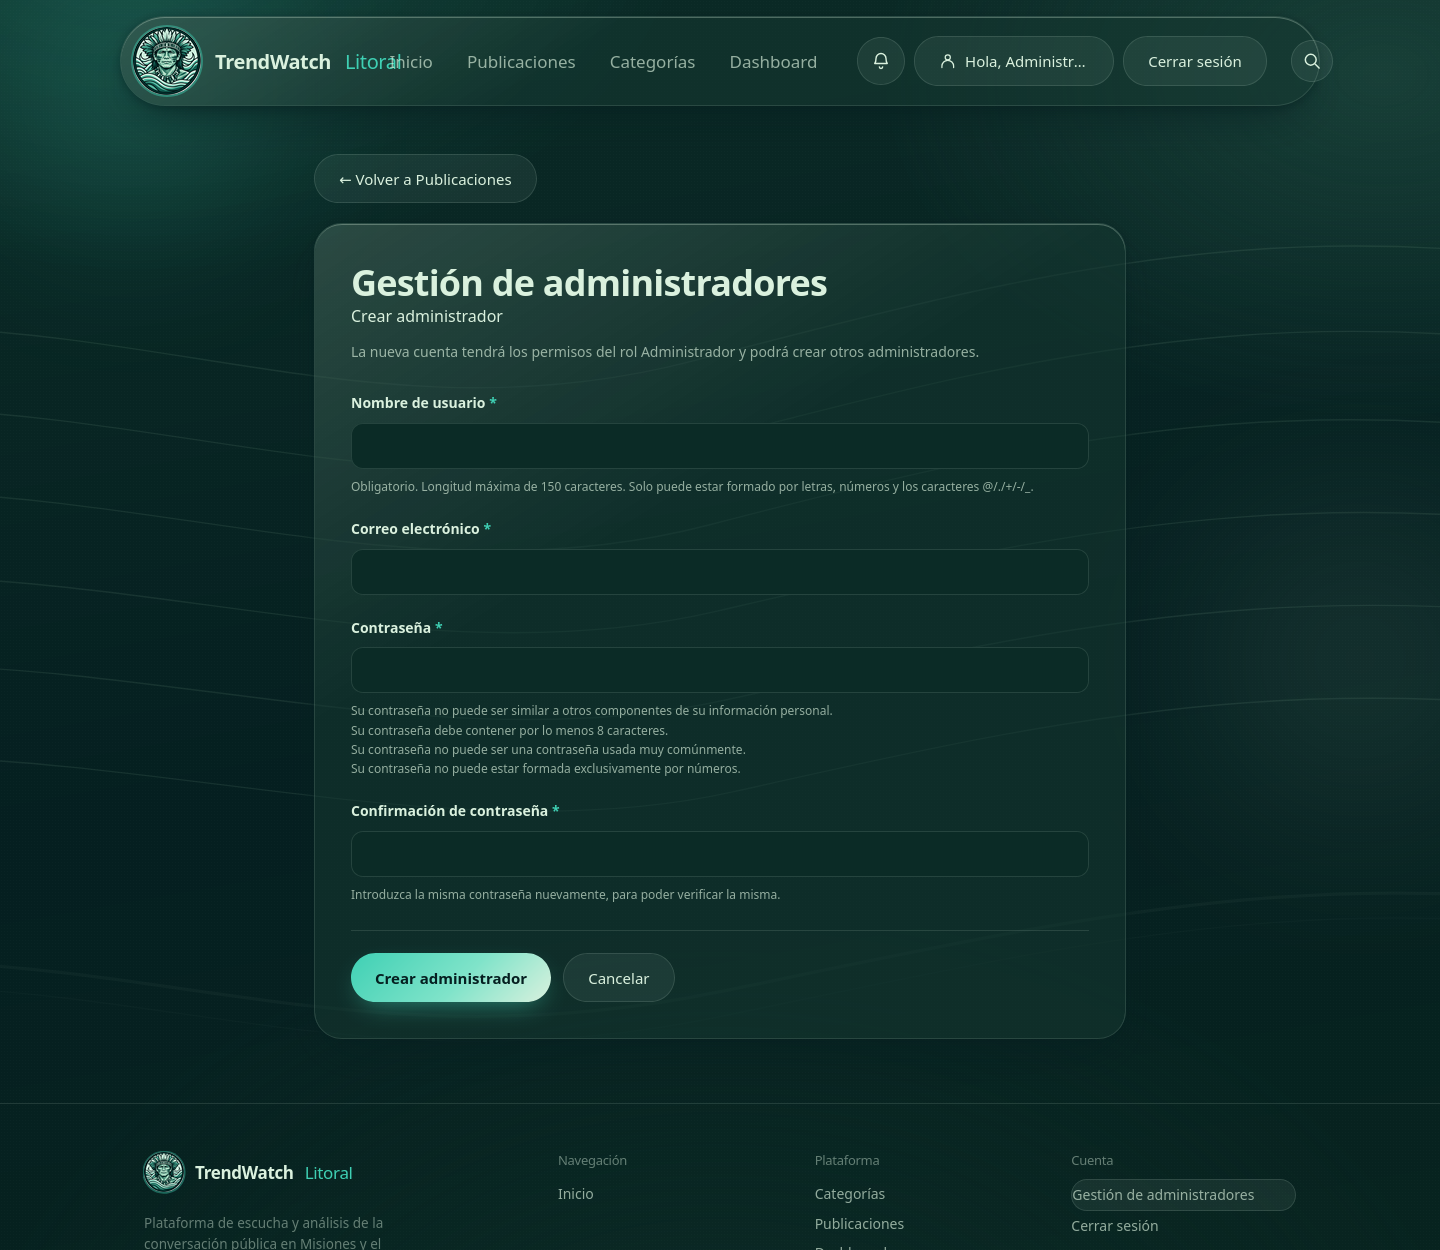
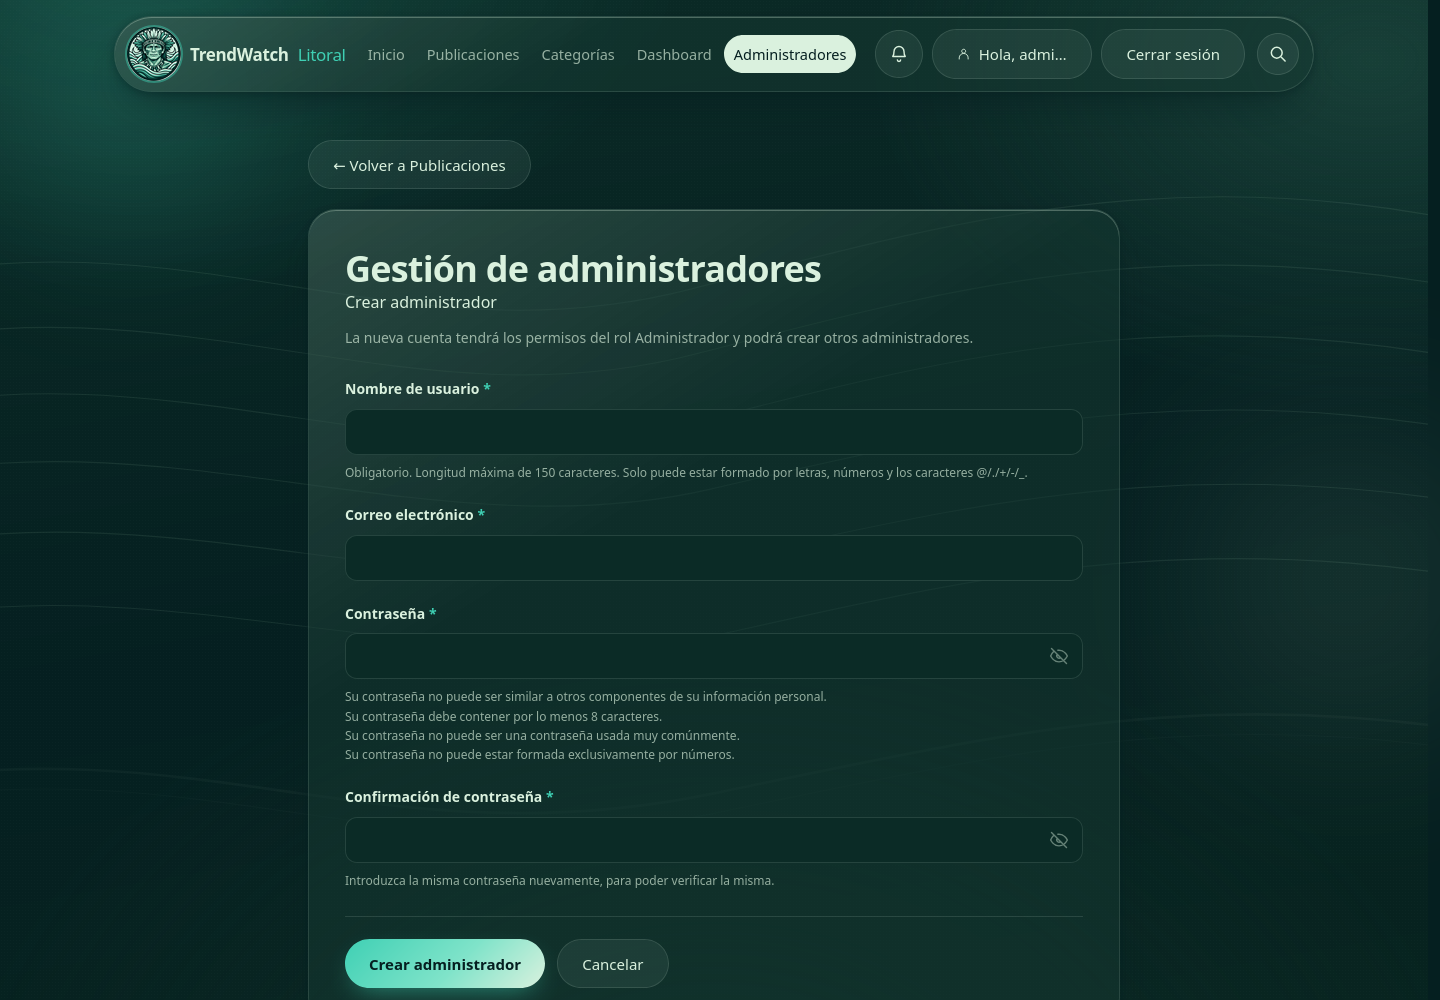
fix(frontend): integrar administradores al navbar y mostrar contraseñas

diff --git a/app/static/css/trendwatch.css b/app/static/css/trendwatch.css
@@ -639,7 +639,8 @@ body.app{padding:0}
 @keyframes inicio-float{0%,100%{transform:translateY(0)}50%{transform:translateY(-10px)}}
 @media (max-width:1000px){.inicio-hero__grid{gap:34px}}
 @media (max-width:760px){.inicio-hero{padding:52px 0 48px;min-height:0}.inicio-hero__grid{grid-template-columns:1fr;gap:28px}.inicio-hero h1{font-size:clamp(46px,11vw,70px)}.inicio-hero__lede{font-size:16px}.inicio-hero__visual{min-height:300px}.inicio-topic-link{width:min(190px,47%);min-height:86px;padding:12px}.inicio-topic-link--1{top:0;left:0}.inicio-topic-link--2{top:0;right:0}.inicio-topic-link--3{bottom:0;left:0}.inicio-topic-link--4{right:0;bottom:0}.inicio-trends-empty{width:min(320px,92%)}}
-@media (max-width:660px){.public-nav-toggle{display:grid}.nav-holder .nav__links{position:absolute;top:calc(100% + 8px);left:12px;right:12px;display:none;flex-direction:column;gap:3px;padding:10px;border-radius:22px;background:var(--glass-deep);border:1px solid var(--edge);backdrop-filter:blur(var(--blur));box-shadow:var(--shadow)}.nav-holder .nav__links.is-open{display:flex}.nav-holder .nav__links a{width:100%}.nav-holder .nav__act{display:none}.inicio-hero__actions .btn{flex:1}}
+@media (max-width:1279px){.public-nav-toggle{display:grid}.nav-holder .nav__links{position:absolute;top:calc(100% + 8px);left:12px;right:12px;display:none;flex-direction:column;gap:3px;padding:10px;border-radius:22px;background:rgba(12,48,43,.98);border:1px solid var(--edge);backdrop-filter:blur(var(--blur));box-shadow:var(--shadow)}.nav-holder .nav__links.is-open{display:flex}.nav-holder .nav__links a{width:100%}.nav-holder .nav__links{max-height:calc(100dvh - 110px);overflow-y:auto}.nav-holder .nav__act{display:flex;margin-left:auto}}
+@media (max-width:660px){.inicio-hero__actions .btn{flex:1}}
 @media (prefers-reduced-motion:reduce){.inicio-topic-link{transition:none}}
 
 
@@ -665,3 +666,12 @@ body.app{padding:0}
 .litoral-brand{display:inline-flex;align-items:center;gap:12px}
 .shell.is-collapsed .sidebar__top{flex-direction:column;gap:10px}
 .nav .account-actions>.account-user{cursor:pointer}
+
+/* Espacio para las cinco secciones sin superponer marca y enlaces. */
+@media (min-width:1280px){
+  .nav:has(.nav__links>a:nth-child(5)){gap:12px}
+  .nav:has(.nav__links>a:nth-child(5)) .brand{flex-shrink:0;font-size:17px;gap:9px}
+  .nav:has(.nav__links>a:nth-child(5)) .brand__mark{width:54px;height:54px}
+  .nav:has(.nav__links>a:nth-child(5)) .nav__links{margin-left:0}
+  .nav:has(.nav__links>a:nth-child(5)) .account-user{max-width:160px}
+}

diff --git a/app/core/templates/base.html b/app/core/templates/base.html
@@ -11,7 +11,7 @@
   <link rel="preconnect" href="https://fonts.gstatic.com" crossorigin>
   <link href="https://fonts.googleapis.com/css2?family=Bricolage+Grotesque:opsz,wght@12..96,400;12..96,500;12..96,600&family=Inter+Tight:wght@400;500;600&display=swap" rel="stylesheet">
   <link rel="icon" type="image/png" href="{% static 'img/favicon.png' %}?v=2">
-  <link rel="stylesheet" href="{% static 'css/trendwatch.css' %}?v=16">
+  <link rel="stylesheet" href="{% static 'css/trendwatch.css' %}?v=17">
   <link rel="stylesheet" href="{% static 'css/auth-flow.css' %}?v=7">
   <link rel="stylesheet" href="{% static 'css/notification-prompt.css' %}?v=2">
   <link rel="stylesheet" href="{% static 'css/news-search.css' %}?v=1">
@@ -51,11 +51,12 @@
         {% include "partials/_mark.html" %}
         TrendWatch <em>Litoral</em>
       </a>
-      <div class="nav__links">
+      <div class="nav__links" id="public-nav-links">
         <a href="{% url 'landing' %}" {% if request.resolver_match.url_name == 'landing' %}aria-current="page"{% endif %}>Inicio</a>
         {% if perms.core.change_publicacion %}<a href="{% url 'publicaciones' %}" {% if request.resolver_match.url_name == 'publicaciones' %}aria-current="page"{% endif %}>Publicaciones</a>{% endif %}
         {% block categories_nav %}<a href="{% url 'categorias' %}" {% if request.resolver_match.url_name == 'categorias' %}aria-current="page"{% endif %}>Categorías</a>{% endblock %}
         {% if perms.core.view_publicacion and perms.core.add_publicacion and perms.core.change_publicacion and perms.core.delete_publicacion %}<a href="{% url 'dashboard' %}" {% if request.resolver_match.url_name == 'dashboard' %}aria-current="page"{% endif %}>Dashboard</a>{% endif %}
+        {% include "partials/_administradores_nav.html" %}
       </div>
       <div class="nav__act">
         {% include "partials/_account_actions.html" %}
@@ -96,7 +97,6 @@
         </div>
         <div>
           <h4>Cuenta</h4>
-          {% puede_gestionar_administradores request.user as gestionar_administradores %}{% if gestionar_administradores %}<a class="btn btn--ghost" href="{% url 'gestion_administradores' %}">Gestión de administradores</a>{% endif %}
           {% if request.user.is_authenticated %}
             <a href="{% url 'logout' %}">Cerrar sesión</a>
           {% else %}

diff --git a/app/core/templates/inicio.html b/app/core/templates/inicio.html
@@ -10,7 +10,7 @@
         <link rel="preconnect" href="https://fonts.gstatic.com" crossorigin>
         <link href="https://fonts.googleapis.com/css2?family=Bricolage+Grotesque:opsz,wght@12..96,400;12..96,500;12..96,600&family=Inter+Tight:wght@400;500;600&display=swap" rel="stylesheet">
         <link rel="icon" type="image/png" href="/static/img/favicon.png?v=2">
-        <link rel="stylesheet" href="/static/css/trendwatch.css?v=16">
+        <link rel="stylesheet" href="/static/css/trendwatch.css?v=17">
         <link rel="stylesheet" href="/static/css/landing-news.css?v=8">
         <link rel="stylesheet" href="/static/css/exchange-rates.css?v=1">
         <link rel="stylesheet" href="/static/css/auth-flow.css?v=7">
@@ -43,11 +43,12 @@
                     {% include "partials/_mark.html" %}
                     TrendWatch <em>Litoral</em>
                 </a>
-                <div class="nav__links">
+                <div class="nav__links" id="public-nav-links">
                     <a href="/" aria-current="page">Inicio</a>
                     {% if perms.core.change_publicacion %}<a href="{% url 'publicaciones' %}">Publicaciones</a>{% endif %}
                     <a href="/categorias/">Categorías</a>
                     {% if perms.core.view_publicacion and perms.core.add_publicacion and perms.core.change_publicacion and perms.core.delete_publicacion %}<a href="{% url 'dashboard' %}">Dashboard</a>{% endif %}
+                    {% include "partials/_administradores_nav.html" %}
                 </div>
                 <div class="nav__act">
                     {% include "partials/_account_actions.html" %}
@@ -128,7 +129,6 @@
                     </div>
                     <div>
                         <h4>Cuenta</h4>
-                        {% puede_gestionar_administradores request.user as gestionar_administradores %}{% if gestionar_administradores %}<a href="{% url 'gestion_administradores' %}">Gestión de administradores</a>{% endif %}
                         {% if request.user.is_authenticated %}
                             <a href="{% url 'logout' %}">Cerrar sesión</a>
                         {% else %}

diff --git a/app/core/templates/core/gestion_administradores.html b/app/core/templates/core/gestion_administradores.html
@@ -1,7 +1,7 @@
 {% extends "base.html" %}
 {% load static %}
 {% block title %}Gestión de administradores · TrendWatch{% endblock %}
-{% block extra_head %}<link rel="stylesheet" href="{% static 'css/publication-form.css' %}?v=2">{% endblock %}
+{% block extra_head %}<link rel="stylesheet" href="{% static 'css/publication-form.css' %}?v=3">{% endblock %}
 {% block content %}
 <div class="wrap publication-editor">
   <a class="btn btn--ghost publication-editor__back" href="{% url 'publicaciones' %}">← Volver a Publicaciones</a>
@@ -18,7 +18,14 @@
       {% for field in form %}
       <div class="publication-editor__field">
         <label for="{{ field.id_for_label }}">{{ field.label }} <span aria-hidden="true">*</span></label>
+        {% if field.field.widget.input_type == 'password' %}
+        <div class="publication-editor__password">
+          {{ field }}
+          {% include "partials/_password_toggle.html" with input_id=field.id_for_label %}
+        </div>
+        {% else %}
         {{ field }}
+        {% endif %}
         {% if field.help_text %}<div class="publication-editor__hint">{{ field.help_text }}</div>{% endif %}
         {% if field.errors %}<div class="publication-editor__errors" role="alert">{{ field.errors }}</div>{% endif %}
       </div>

diff --git a/app/static/css/publication-form.css b/app/static/css/publication-form.css
@@ -30,3 +30,10 @@
 .publication-editor__actions{display:flex;flex-wrap:wrap;gap:12px;padding-top:22px;margin-top:4px;border-top:1px solid var(--edge)}
 @media(max-width:760px){.publication-editor{margin-top:20px}.publication-editor__card{padding:24px;border-radius:22px}.publication-editor__options{grid-template-columns:repeat(2,minmax(0,1fr))}}
 @media(max-width:420px){.publication-editor__card{padding:20px}.publication-editor__options{grid-template-columns:1fr}.publication-editor__actions .btn{width:100%}}
+
+/* Compartir el control de contraseña sin ampliar el campo en móvil. */
+.publication-editor__password{position:relative;min-width:0}
+.publication-editor__password input{padding-right:52px}
+.publication-editor__password .input__toggle{position:absolute;right:4px;top:50%;transform:translateY(-50%);width:40px;height:40px}
+.publication-editor__password .input__toggle[hidden]{display:none}
+.publication-editor__password .input__toggle:focus-visible{outline:2px solid var(--aqua);outline-offset:1px}

diff --git a/app/core/templates/core/publicaciones.html b/app/core/templates/core/publicaciones.html
@@ -16,7 +16,6 @@
         <h1>Publicaciones</h1>
         <p>Publicaciones reales de TrendWatch Litoral. Consultá las noticias y el estado de sus análisis.</p>
         <div class="dashboard-head-actions">
-            {% puede_gestionar_administradores request.user as gestionar_administradores %}{% if gestionar_administradores %}<a class="btn btn--ghost" href="{% url 'gestion_administradores' %}">Gestión de administradores</a>{% endif %}
             <a class="btn btn--ghost dashboard-new" href="{% url 'crear_publicacion_web' %}">Nueva publicación</a>
             <button class="btn btn--ghost" type="button" data-dashboard-edit-toggle aria-pressed="false" aria-controls="dashboard-publications" hidden>Editar publicación</button>
         </div>

diff --git a/app/core/templates/core/dashboard.html b/app/core/templates/core/dashboard.html
@@ -5,7 +5,6 @@
 {% block body_class %}analytics-page{% endblock %}
 {% block extra_head %}<link rel="stylesheet" href="{% static 'css/analytics.css' %}?v=1">{% endblock %}
 {% block content %}
-<div class="wrap">{% puede_gestionar_administradores request.user as gestionar_administradores %}{% if gestionar_administradores %}<a class="btn btn--ghost" href="{% url 'gestion_administradores' %}">Gestión de administradores</a>{% endif %}</div>
 <div class="wrap analytics">
   <header class="page-head"><p class="analytics-eyebrow">Panel de administración</p><h1>Dashboard</h1><p>Indicadores reales del conjunto completo de publicaciones, sin el límite del panel de gestión.</p></header>
   <form method="get" class="analytics-filters glass glass--sheen">

diff --git a/app/core/templates/partials/_administradores_nav.html b/app/core/templates/partials/_administradores_nav.html
@@ -1,0 +1,3 @@
+{% load roles %}
+{% puede_gestionar_administradores request.user as gestionar_administradores %}
+{% if gestionar_administradores %}<a href="{% url 'gestion_administradores' %}" {% if request.resolver_match.url_name == 'gestion_administradores' %}aria-current="page"{% endif %}>Administradores</a>{% endif %}

diff --git a/app/core/test_gestion_administradores.py b/app/core/test_gestion_administradores.py
@@ -124,12 +124,12 @@ class GestionAdministradoresTests(TestCase):
                 self.client.force_login(usuario)
             response = self.client.get(reverse('landing'))
             if usuario in (self.admin, self.root):
-                self.assertContains(response, 'Gestión de administradores')
+                self.assertContains(response, 'href="/administradores/"')
                 self.assertContains(response, 'id="inicio-indicadores"')
                 for vista in ('publicaciones', 'dashboard'):
-                    self.assertContains(self.client.get(reverse(vista)), 'Gestión de administradores')
+                    self.assertContains(self.client.get(reverse(vista)), 'href="/administradores/"')
             else:
-                self.assertNotContains(response, 'Gestión de administradores')
+                self.assertNotContains(response, 'href="/administradores/"')
 
     def test_staff_sin_permisos_no_autoriza(self):
         self.normal.is_staff = True
@@ -217,7 +217,7 @@ class SeguridadAdministrativaTests(TestCase):
         self.assertEqual(self.client.get(self.url).status_code, 403)
         self.assertEqual(self.client.post(self.url, self.datos).status_code, 403)
         self.assertFalse(User.objects.filter(username='pepe').exists())
-        self.assertNotContains(self.client.get(reverse('landing')), 'Gestión de administradores')
+        self.assertNotContains(self.client.get(reverse('landing')), 'href="/administradores/"')
 
     def test_escrituras_auth_reservadas_incluso_con_permisos_historicos(self):
         # Simular una instalación anterior y permisos directos accidentales.
@@ -321,7 +321,7 @@ class SeguridadAdministrativaTests(TestCase):
         grupo.permissions.clear()
         self.client.force_login(self.admin)
         self.assertEqual(self.client.post(self.url, self.datos).status_code, 403)
-        self.assertNotContains(self.client.get(reverse('landing')), 'Gestión de administradores')
+        self.assertNotContains(self.client.get(reverse('landing')), 'href="/administradores/"')
         self.root.is_active = False
         self.root.save()
         self.client.force_login(self.root)

diff --git a/app/core/test_navegacion_admin.py b/app/core/test_navegacion_admin.py
@@ -10,18 +10,24 @@ class NavegacionAdminTests(TestCase):
         admin = get_user_model().objects.create_user('nav_admin', is_staff=True)
         admin.user_permissions.set(Permission.objects.all())
         self.client.force_login(root)
-        for ruta in ('landing', 'categorias', 'publicaciones', 'dashboard'):
+        for ruta in ('landing', 'categorias', 'publicaciones', 'dashboard', 'gestion_administradores'):
             response = self.client.get(reverse(ruta))
             self.assertEqual(response.status_code, 200)
             html = response.content.decode()
             nav = html[html.index('class="nav__links"'):html.index('class="nav__act"')]
-            posiciones = [nav.index('>Inicio<'), nav.index('>Publicaciones<'), nav.index('>Categorías'), nav.index('>Dashboard<')]
+            posiciones = [nav.index('>Inicio<'), nav.index('>Publicaciones<'), nav.index('>Categorías'), nav.index('>Dashboard<'), nav.index('>Administradores<')]
             self.assertEqual(posiciones, sorted(posiciones))
+            self.assertEqual(html.count('href="/administradores/"'), 1)
+            if ruta == 'gestion_administradores':
+                self.assertIn('href="/administradores/" aria-current="page"', nav)
+                self.assertContains(response, 'data-password-toggle="id_password1"', count=1)
+                self.assertContains(response, 'data-password-toggle="id_password2"', count=1)
         self.client.force_login(admin)
         for ruta in ('landing', 'categorias', 'publicaciones'):
             response = self.client.get(reverse(ruta))
             self.assertContains(response, 'href="/publicaciones/"')
             self.assertContains(response, 'href="/dashboard/"')
+            self.assertNotContains(response, 'href="/administradores/"')
         self.client.logout()
         response = self.client.get(reverse('landing'))
         self.assertNotContains(response, 'href="/dashboard/"')
